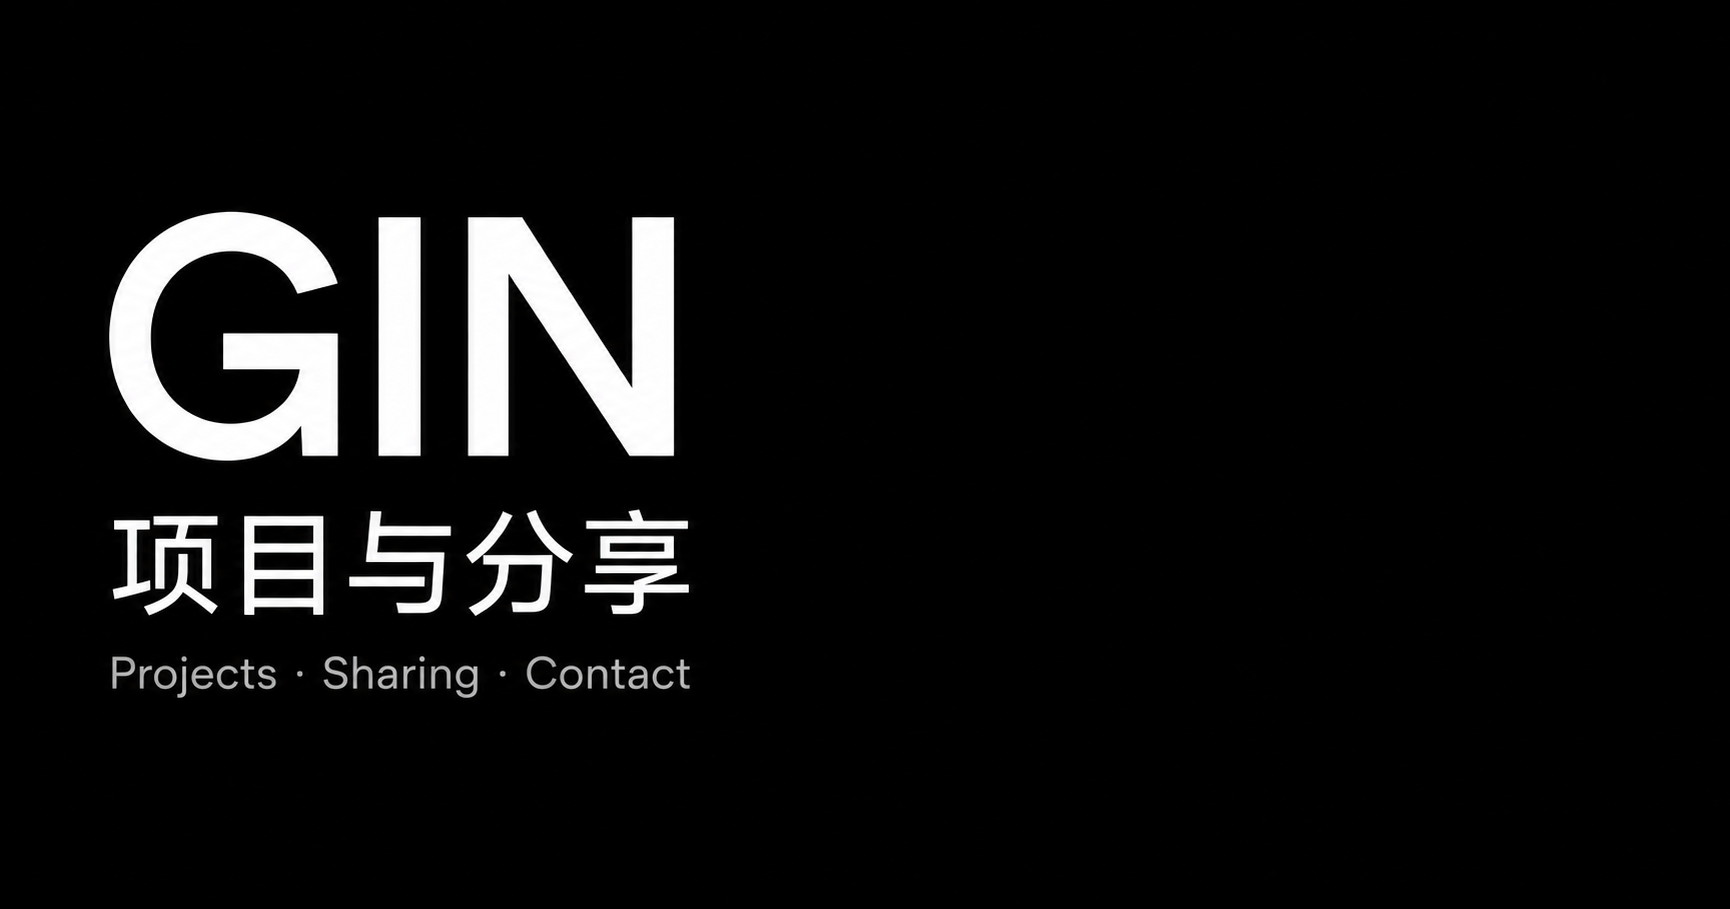
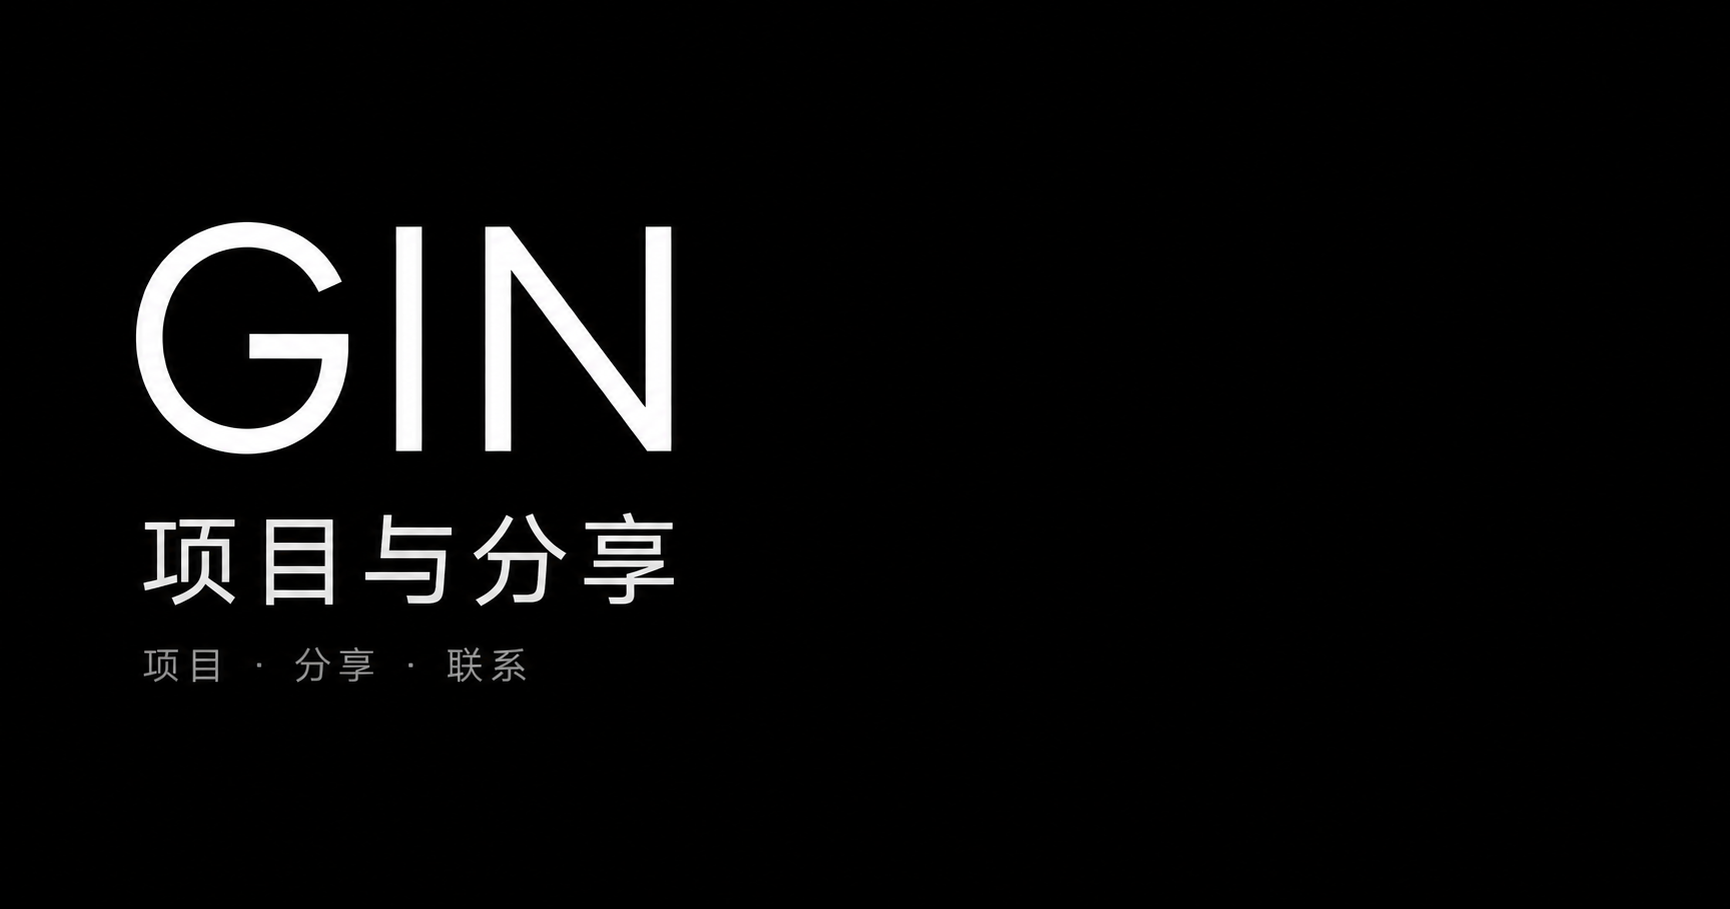
Localize homepage copy to Chinese

Changed region(s): [[0.0624, 0.2156, 0.4058, 0.5237], [0.0624, 0.5545, 0.4058, 0.6777], [0.0624, 0.7085, 0.4058, 0.7701]]

diff --git a/app/page.tsx b/app/page.tsx
@@ -1,80 +1,80 @@
 const navItems = [
-  { href: "#top", label: "HOME" },
-  { href: "#projects", label: "PROJECTS" },
-  { href: "#writing", label: "SHARING" },
-  { href: "#contact", label: "CONTACT" },
+  { href: "#top", label: "首页" },
+  { href: "#projects", label: "项目" },
+  { href: "#writing", label: "分享" },
+  { href: "#contact", label: "联系" },
 ];
 
-const categories = ["AI", "App", "SaaS", "Open Source", "Tools", "All"];
+const categories = ["人工智能", "应用", "网站服务", "开源项目", "工具", "全部"];
 
 const projects = [
   {
     title: "rizhuizong",
     href: "https://github.com/yxqhuqin222-star/rizhuizong",
     live: "https://rizhuizong.vercel.app",
-    category: "SaaS",
-    role: "Owner",
-    status: "LIVE",
+    category: "网站服务",
+    role: "主理人",
+    status: "已上线",
     monogram: "RZ",
     summary: "数据进度追踪工具，用来查看业务数据、进量和进度变化。",
-    tags: ["SaaS", "Python", "Live"],
+    tags: ["网站服务", "Python", "已上线"],
   },
   {
     title: "xiaoyuzhou-to-article-qwen",
     href: "https://github.com/yxqhuqin222-star/xiaoyuzhou-to-article-qwen",
     category: "AI",
-    role: "Builder",
-    status: "LAB",
+    role: "开发者",
+    status: "实验中",
     monogram: "XA",
     summary: "把小宇宙播客链接转成可阅读、可沉淀的总结内容。",
-    tags: ["AI", "Shell", "Content"],
+    tags: ["AI", "Shell", "内容"],
   },
   {
     title: "dingtalk-broadcast-console",
     href: "https://github.com/yxqhuqin222-star/dingtalk-broadcast-console",
-    category: "Tools",
-    role: "Builder",
-    status: "WIP",
+    category: "工具",
+    role: "开发者",
+    status: "开发中",
     monogram: "DB",
     summary: "钉钉群播报控制台，用于定时推送消息和日常内容。",
-    tags: ["Tool", "Python", "Automation"],
+    tags: ["工具", "Python", "自动化"],
   },
   {
     title: "pages_shouji",
     href: "https://github.com/yxqhuqin222-star/pages_shouji",
-    category: "App",
-    role: "Builder",
-    status: "LAB",
+    category: "应用",
+    role: "开发者",
+    status: "实验中",
     monogram: "PS",
     summary: "面向网页展示的前端页面项目，适合沉淀轻量展示页。",
-    tags: ["App", "JavaScript", "Pages"],
+    tags: ["应用", "JavaScript", "页面"],
   },
   {
     title: "feishu-chat-replay",
     href: "https://github.com/yxqhuqin222-star/feishu-chat-replay",
-    category: "Open Source",
-    role: "Builder",
-    status: "LAB",
+    category: "开源项目",
+    role: "开发者",
+    status: "实验中",
     monogram: "FR",
     summary: "飞书聊天记录回放页面，用网页方式还原和查看对话内容。",
-    tags: ["Open Source", "HTML", "Replay"],
+    tags: ["开源项目", "HTML", "回放"],
   },
 ];
 
 const shares = [
   {
     title: "书籍",
-    group: "Books",
+    group: "书籍",
     summary: "读书笔记、摘录和读完之后真正留下来的想法。",
   },
   {
     title: "AI",
-    group: "AI Notes",
+    group: "AI 笔记",
     summary: "关于 AI 工具、自动化、Agent 和个人工作流的记录。",
   },
   {
     title: "效率与生活",
-    group: "Life",
+    group: "生活",
     summary: "把日常经验、复盘和一些小发现整理成可回看的分享。",
   },
 ];
@@ -85,7 +85,7 @@ export default function Home() {
       <div className="page-shell">
         <header className="site-header" aria-label="站点头部">
           <div className="header-left">
-            <a className="brand" href="#top" aria-label="Gin home">
+            <a className="brand" href="#top" aria-label="Gin 首页">
               GIN
             </a>
             <nav aria-label="主导航">
@@ -101,15 +101,13 @@ export default function Home() {
             </nav>
           </div>
           <div className="language" aria-label="语言">
-            <span>EN</span>
-            <span>/</span>
-            <strong>ZH</strong>
+            <span>中文</span>
           </div>
         </header>
 
         <section className="hero">
           <h1>
-            Hey! I&apos;m Gin,
+            嗨，我是 Gin，
             <br />
             这里是我自己的项目和一些分享
           </h1>
@@ -120,8 +118,8 @@ export default function Home() {
 
         <section className="products" id="projects" aria-labelledby="products-title">
           <div className="section-copy">
-            <h2 id="products-title">Products</h2>
-            <p>Building products I use, Building systems I need</p>
+            <h2 id="products-title">项目</h2>
+            <p>做自己会用的产品，搭自己真正需要的系统</p>
           </div>
 
           <ul className="category-tabs" aria-label="产品分类">
@@ -153,7 +151,7 @@ export default function Home() {
                   </a>
                   {"live" in project && project.live ? (
                     <a href={project.live} target="_blank" rel="noreferrer">
-                      Live
+                      访问网站
                     </a>
                   ) : null}
                 </div>
@@ -164,8 +162,8 @@ export default function Home() {
 
         <section className="sharing" id="writing" aria-labelledby="sharing-title">
           <div className="section-copy">
-            <h2 id="sharing-title">Sharing</h2>
-            <p>Notes about books, AI, efficiency and life</p>
+            <h2 id="sharing-title">分享</h2>
+            <p>关于书籍、AI、效率和生活的一些记录</p>
           </div>
           <div className="share-grid">
             {shares.map((share) => (
@@ -180,7 +178,7 @@ export default function Home() {
 
         <footer className="footer" id="contact">
           <div className="section-copy">
-            <h2>Contact</h2>
+            <h2>联系</h2>
             <p>欢迎通过下面这些方式联系我</p>
           </div>
           <div className="footer-links">